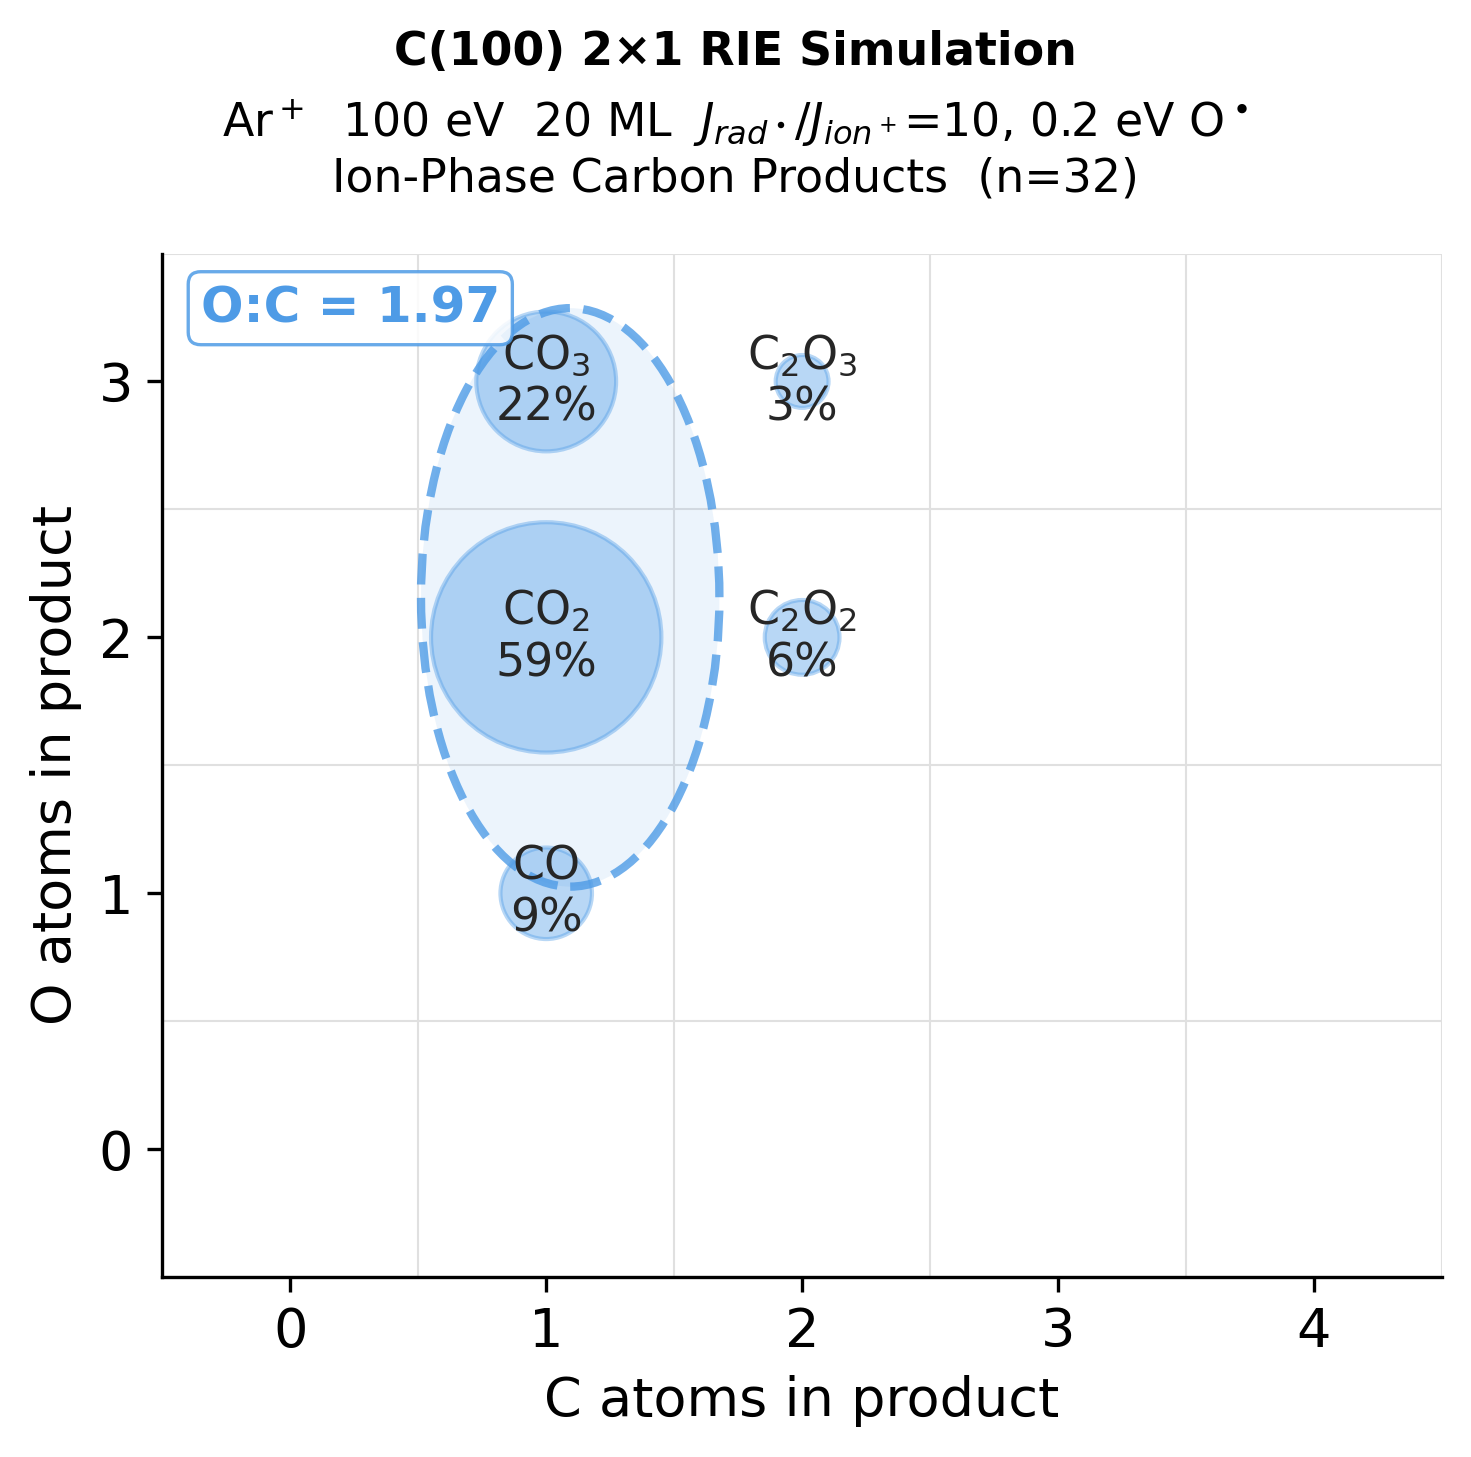
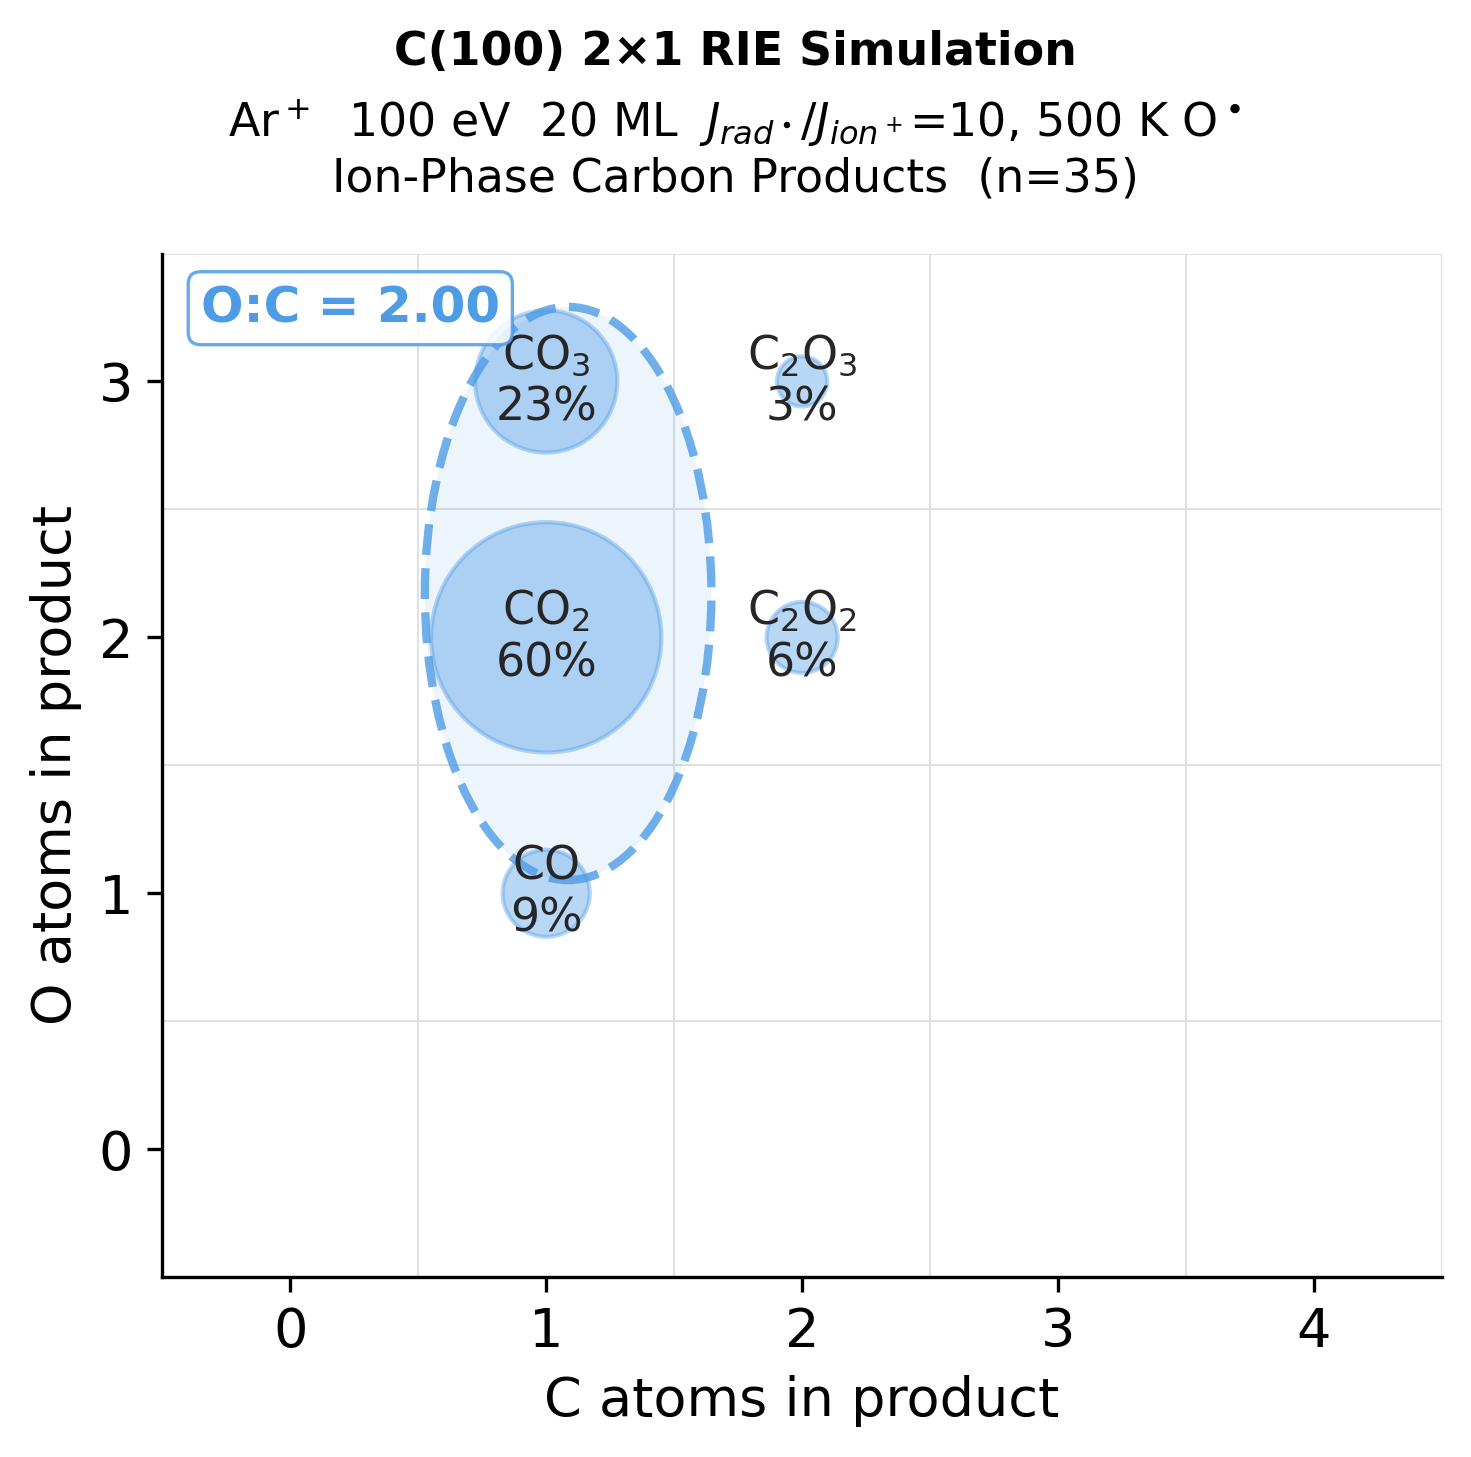
Updated README.md and auto-plot

diff --git a/diamond_etch_md/analysis/plot.py b/diamond_etch_md/analysis/plot.py
@@ -188,8 +188,16 @@ def _spec_summary_str(spec) -> str:
     def _ion_label(sp):
         return _species_ion_label(sp)
 
+    def _radical_label(radical_energy, radical_temperature):
+        """Return 'X K O•' or 'X eV O•' depending on which field is set."""
+        if radical_temperature:
+            return f", {radical_temperature:.4g} K O$^\\bullet$"
+        if radical_energy:
+            return f", {radical_energy:.4g} eV O$^\\bullet$"
+        return ""
+
     def _ion_line(species, energy, fluence_ml=None, pct=None, flux_ratio=0,
-                  radical_energy=0.2, angle=0.0, prefix=""):
+                  radical_energy=0.2, radical_temperature=None, angle=0.0, prefix=""):
         """Build one ion-spec line."""
         parts = [prefix + _ion_label(species)]
         if pct is not None:
@@ -202,8 +210,8 @@ def _spec_summary_str(spec) -> str:
             parts.append(f"{angle:.4g}°")
         line = "  ".join(parts)
         if flux_ratio and flux_ratio > 0:
-            re_s = f", {radical_energy:.4g} eV O$^\\bullet$" if radical_energy else ""
-            line += f"  $J_{{rad^\\bullet}}/J_{{ion^+}}$={flux_ratio}{re_s}"
+            line += f"  $J_{{rad^\\bullet}}/J_{{ion^+}}$={flux_ratio}" \
+                    + _radical_label(radical_energy, radical_temperature)
         return line
 
     angle = getattr(spec, 'ion_angle', getattr(spec, 'angle', 0.0))
@@ -222,7 +230,8 @@ def _spec_summary_str(spec) -> str:
         # Shared RIE / run parameters on a final row
         rie_parts = []
         if fr and fr > 0:
-            re_s = f", {getattr(spec, 'radical_energy', 0.2):.4g} eV O$^\\bullet$"
+            re_s = _radical_label(getattr(spec, 'radical_energy', 0.2),
+                                  getattr(spec, 'radical_temperature', None))
             rie_parts.append(f"$J_{{rad^\\bullet}}/J_{{ion^+}}$={fr}{re_s}")
         if fluence:
             rie_parts.append(f"{fluence} ML total")
@@ -242,6 +251,7 @@ def _spec_summary_str(spec) -> str:
                     p.species, p.energy, fluence_ml=p.fluence_ml,
                     flux_ratio=p.flux_ratio,
                     radical_energy=getattr(p, 'radical_energy', 0.2),
+                    radical_temperature=getattr(p, 'radical_temperature', None),
                     angle=angle,
                     prefix="RIE " if rie else "",
                 )
@@ -256,6 +266,7 @@ def _spec_summary_str(spec) -> str:
                        fluence_ml=fluence,
                        flux_ratio=fr,
                        radical_energy=getattr(spec, 'radical_energy', 0.2),
+                       radical_temperature=getattr(spec, 'radical_temperature', None),
                        angle=angle,
                        prefix="")
     return f"{surf} {sim_type} Simulation\n{ion_ln}"

diff --git a/README.md b/README.md
@@ -1,20 +1,15 @@
 # DiamondEtchMD
 
 Python package for setting up and analysing LAMMPS ReaxFF molecular-dynamics
-simulations of diamond surface etching. Handles four physically relevant
-bombardment regimes — **ion-etch** (ion-only baseline), **RIE-etch**
-(reactive-ion etching with simultaneous radical exposure), **multi-ion-etch /
-multi-RIE-etch** (stochastic multi-component ion mixes), and **cycle-etch**
-(multi-phase alternating-species cycling, including **ALE-etch**) — across four
-crystal orientations and a range of surface reconstructions and terminations.
-Produces simulation directories that are ready to submit to a SLURM cluster or
-run locally (requires a GPU).
+simulations of diamond surface etching across four crystal orientations and a
+range of surface reconstructions. Produces SLURM-ready simulation directories
+(requires a GPU).
 
 | Mode | What it models |
 |---|---|
 | **ion-etch** | Single-species ion bombardment with no radicals. |
 | **RIE-etch** | O• radicals deposited between each ion impact for plasma-assisted etching. |
-| **multi-ion-etch** | Stochastic multi-component ion mix (e.g. 50% O⁺ + 50% O₂⁺, or trimodal energy distribution), no radicals. |
+| **multi-ion-etch** | Stochastic multi-component ion mix (e.g. 50% O⁺ + 50% O₂⁺, or energy distribution), no radicals. |
 | **multi-RIE-etch** | Multi-component ion mix with O• radical pre-exposure. |
 | **cycle-etch / ALE-etch** | Alternating phases of different ionic species, flux ratios, and/or conditions. |
 
@@ -99,43 +94,50 @@ make_sim(spec, Path("MULTI_ION_100_Oether_O_Edist"))
 
 ---
 
-### 3. O⁺ RIE on C(100) 2×1 Reconstruction
+### 3. RIE-etch — Ar⁺ with Maxwell-Boltzmann O• radicals
 
-![RIE_O_20eV_R5](examples/RIE_O_20eV_R5/etch_trajectory.png)
+![RIE_O_100_boltzRads](examples/RIE_O_100_boltzRads/etch_trajectory.png)
 
 ```python
-# examples/RIE_O_100.py
+# examples/RIE_O_100_boltzRads.py
 from pathlib import Path
 from diamond_etch_md import SimSpec, compute_ml, make_sim, validate, etch_mode
 
-nx, ny = 6, 6
-ml = compute_ml("100", nx, ny)   # 36 atoms/ML for 6×6 box
+nx, ny = 8, 8
+ml = compute_ml("100", nx, ny)               # 64 atoms/ML for 8×8 box
 
 spec = SimSpec(
     orientation    = "100",
     surface        = "2x1",
     surface_temperature = 300.0,
-    species        = "O",
-    energy         = 20.0,
+
+    species        = "Ar",
+    energy         = 100.0,                  # eV
     ion_angle      = 0.0,
+
     fluence        = 20,
     ml             = ml,
     box_x          = nx,
     box_y          = ny,
-    box_depth      = 3,
-    flux_ratio     = 5,
-    radical_energy = 0.2,
+    box_depth      = 6,
+
+    flux_ratio          = 10,                # 10 O• radicals before each Ar⁺ impact
+    radical_temperature = 500.0,             # K — Maxwell-Boltzmann speed distribution
+    radical_angle_distribution  = True,      # Lambert cosine polar angles
+    radical_i_above    = 6.0,                # Å above surface to inject radical
+    max_inter_neutral_time = 5000.0,         # fs — cap on per-radical run time
+
     impact_time         = 1000.0,
     thermalization_time = 500.0,
-    inter_neutral_time  = 1000.0,
+
     wall_hours     = 24,
     account        = "dgraves",
-    name           = "RIE_100_2x1_O_20eV_R5",
+    name           = "RIE_O_100_boltzRads",
 )
 
 validate(spec)
 print(f"etch_mode = {etch_mode(spec)}")   # → "rie-etch"
-make_sim(spec, Path("RIE_O_20eV_R5"))
+make_sim(spec, Path("RIE_O_100_boltzRads"))
 ```
 
 ---
@@ -184,54 +186,7 @@ make_sim(spec, Path("MULTI_RIE_100_Oether_Ar_O2"))
 
 ---
 
-### 5. RIE-etch with stochastic radicals — Maxwell-Boltzmann speeds + Lambert cosine angles
-
-```python
-# examples/RIE_O_100_boltzRads.py
-from pathlib import Path
-from diamond_etch_md import SimSpec, compute_ml, make_sim, validate, etch_mode
-
-nx, ny = 8, 8
-ml = compute_ml("100", nx, ny)               # 64 atoms/ML for 8×8 box
-
-spec = SimSpec(
-    orientation    = "100",
-    surface        = "2x1",
-    surface_temperature = 300.0,
-
-    species        = "Ar",
-    energy         = 100.0,                  # eV
-    ion_angle      = 0.0,
-
-    fluence        = 20,
-    ml             = ml,
-    box_x          = nx,
-    box_y          = ny,
-    box_depth      = 6,
-
-    flux_ratio          = 10,                # 10 O• radicals before each Ar⁺ impact
-    radical_temperature = 500.0,             # K — Maxwell-Boltzmann speed distribution
-    radical_angle_distribution  = True,      # Lambert cosine polar angles
-    radical_i_above    = 6.0,                # Å above surface to inject radical
-    max_inter_neutral_time = 5000.0,         # fs — cap on per-radical run time
-
-    impact_time         = 1000.0,
-    thermalization_time = 500.0,
-
-    wall_hours     = 24,
-    account        = "dgraves",
-    name           = "RIE_O_100_boltzRads",
-    email          = "",
-)
-
-validate(spec)
-print(f"etch_mode = {etch_mode(spec)}")   # → "rie-etch"
-make_sim(spec, Path("RIE_O_100_boltzRads"))
-```
-
----
-
-### 7. Cycle etch — Ar⁺ / O₂⁺ ALE/IDLE
+### 5. Cycle etch — Ar⁺ / O₂⁺ ALE/IDLE
 
 ![cycling_Ar_O2_IDLE](examples/cycling_Ar_O2_IDLE/etch_trajectory.png)
 
@@ -279,7 +234,7 @@ make_sim(spec, Path("cycling_Ar_O2_IDLE"))
 
 ---
 
-### 8. 3-Phase cycle etch — Ar⁺ / O₂⁺ / O⁺
+### 6. 3-Phase cycle etch — Ar⁺ / O₂⁺ / O⁺
 
 ![cycling_3phase_Ar_O2_O](examples/cycling_3phase_Ar_O2_O/etch_trajectory.png)
 
@@ -319,68 +274,24 @@ make_sim(spec, Path("cycling_3phase_Ar_O2_O"))
 
 ## Etching modes
 
-### ion-etch — ion bombardment baseline
+| Mode | Trigger | Description |
+|---|---|---|
+| **ion-etch** | `flux_ratio=0`, no `ion_mix`, no `phases` | Single-species ion bombardment, no radicals |
+| **RIE-etch** | `flux_ratio>0`, no `ion_mix`, no `phases` | `flux_ratio` O• radicals deposited before each ion impact |
+| **multi-ion-etch** | `ion_mix` set, `flux_ratio=0` | Each impact draws stochastically from a weighted species/energy mix |
+| **multi-RIE-etch** | `ion_mix` set, `flux_ratio>0` | Multi-component mix + O• radical pre-exposure |
+| **cycle-etch / ALE-etch** | `phases` set | Sequential phase blocks (species, energy, fluence, flux_ratio), repeated `cycles` times |
 
-Single-species ion bombardment with no radical co-exposure. Ions of one type
-(O⁺, O₂⁺, or Ar⁺) are delivered one at a time at a specified energy and angle.
+`etch_mode(spec)` returns the mode string for any `SimSpec`.
 
-Use ion-etch to calculate facet-dependent ion energy etch thresholds, angle-dependence, or temperature-dependence.
+### Radical velocity sampling (RIE modes)
 
-### RIE-etch — reactive-ion etching
+Radicals can be injected with fixed or stochastic velocities:
 
-A fixed number of O• radicals (`flux_ratio`) are deposited onto the surface
-before each ion impact. The radical pre-exposure builds up surface oxygen, which
-is then driven off as volatile COₓ by the subsequent ion. This is the standard
-atomistic model for plasma-assisted reactive-ion etching of carbon.
-
-`flux_ratio` is the number of O• radicals per ion impact (ratio of radical and ion fluxes: $J_{O•}/J_{ion^+}$).
-
-**Fixed-energy mode** (default): all radicals arrive with the same kinetic energy (`radical_energy`) and polar angle (`radical_angle`).
-
-**Stochastic mode**: set `radical_temperature` and/or `radical_angle_distribution=True` to draw each radical's velocity on-the-fly during the LAMMPS run:
-
-- `radical_temperature` (K) — each radical's speed is drawn from the Maxwell-Boltzmann distribution at the specified temperature. The three Cartesian velocity components are sampled via Box-Muller, giving a 3-D speed distributed as Maxwell-Boltzmann.
-- `radical_angle_distribution=True` — polar angle θ is drawn from the Lambert cosine (flux-weighted) distribution: θ = arcsin(√U), φ = 2π·U₂. This is the correct distribution for thermalized species impacting a surface, where the flux is weighted by the normal velocity component (cos θ).
-- Both flags can be combined: Boltzmann speed + cosine angles gives the most physically realistic radical distribution for a plasma.
-- `max_inter_neutral_time` caps the MD window for each radical (default 5000 fs).
-- Sampled velocities are logged per-radical to `radical_log.txt` and plotted in `radical_distribution.png`.
-
-### multi-ion-etch / multi-RIE-etch — stochastic multi-component ion mix
-
-A plasma often contains more than one ion species (e.g. an O₂ discharge produces
-both O⁺ and O₂⁺). In multi-ion mode each impact randomly samples from a set of
-`IonComponent` entries according to their `fraction` weights, so the statistical
-mix converges to the specified composition over many impacts.
-
-Each component specifies its own `energy`, allowing energy distributions to be
-modelled too (e.g. 10% ions at 20 eV, 20% at 10 eV, 70% at 5 eV).
-
-With `flux_ratio == 0` this is **multi-ion-etch** (no radicals); with
-`flux_ratio > 0` it is **multi-RIE-etch** (O• radicals before every ion impact,
-regardless of which ion was selected).
-
-Each impact appends one line to `ion_impacts.txt`: `{impact_number} {ion_type}`,
-enabling per-species yield decomposition in post-processing.
-
-`multi_ion_dir_name(spec)` returns a canonical directory name:
-- **RIE** prefix when `flux_ratio > 0`: `RIE_O_50p_50eV_O2_50p_100eV_R5`
-- **ION** prefix when `flux_ratio == 0`: `ION_O_50p_50eV_O2_50p_100eV`
-
-### cycle-etch / ALE-etch — multi-phase cycling
-
-Two or more ion species (or the same species at different conditions) alternate
-in a repeating phase sequence. Each phase specifies its own species, energy,
-fluence in ML per cycle, and an optional radical flux. The phase list repeats
-for `cycles` repetitions.
-
-**ALE-etch** (Atomic Layer Etching) is cycle-etch restricted to exactly two
-phases — typically a surface modification phase followed by a layer-removal
-phase. Use `make_ale()` in place of `make_sim()` to enforce the 2-phase
-constraint. ALE-etch with `flux_ratio=0` in every phase reduces to alternating
-ion-etch cycles.
-
-`etch_mode(spec)` returns `"ion-etch"`, `"rie-etch"`, `"multi-ion-etch"`,
-`"multi-rie-etch"`, or `"cycle-etch"` for any `SimSpec`.
+- **Fixed** (default): all radicals use `radical_energy` (eV) and `radical_angle` (degrees from normal).
+- **Boltzmann speeds**: set `radical_temperature` (K) — speeds drawn from the Maxwell-Boltzmann distribution via Box-Muller sampling on-the-fly in LAMMPS.
+- **Cosine angles**: set `radical_angle_distribution=True` — polar angle drawn from the Lambert cosine (flux-weighted) distribution, φ uniform. Correct for thermalized species impacting a surface.
+- Both flags are independent and can be combined. Sampled velocities are logged to `radical_log.txt` and plotted in `radical_distribution.png`.
 
 ---
 
@@ -819,7 +730,7 @@ annotations on every field.
 | [`O_etching_110.py`](examples/O_etching_110.py) | ion-etch | C(110) bare and O-terminated |
 | [`angled_Ar_100.py`](examples/angled_Ar_100.py) | ion-etch | 45° off-normal Ar⁺ incidence |
 | [`high_energy_O_100.py`](examples/high_energy_O_100.py) | ion-etch | 200 eV O⁺ with deep slab |
-| [`RIE_etching_100.py`](examples/RIE_etching_100.py) | RIE-etch | O⁺ at 20 eV + O• pre-exposure (flux_ratio=5) |
+| [`RIE_etching_100.py`](examples/RIE_etching_100.py) | RIE-etch | O⁺ at 20 eV + fixed-energy O• radicals (flux_ratio=5) |
 | [`RIE_O_100_boltzRads.py`](examples/RIE_O_100_boltzRads.py) | RIE-etch | Ar⁺ at 100 eV + Maxwell-Boltzmann O• radicals (500 K, Lambert cosine angles) |
 | [`cycling_Ar_O2_100.py`](examples/cycling_Ar_O2_100.py) | cycle/ALE | Ar⁺→O₂⁺, O⁺→O₂⁺, 3-phase Ar⁺→O⁺→O₂⁺ |
 | [`make_all_surfaces.py`](examples/make_all_surfaces.py) | ion-etch | Generate a simulation directory for every supported surface |
